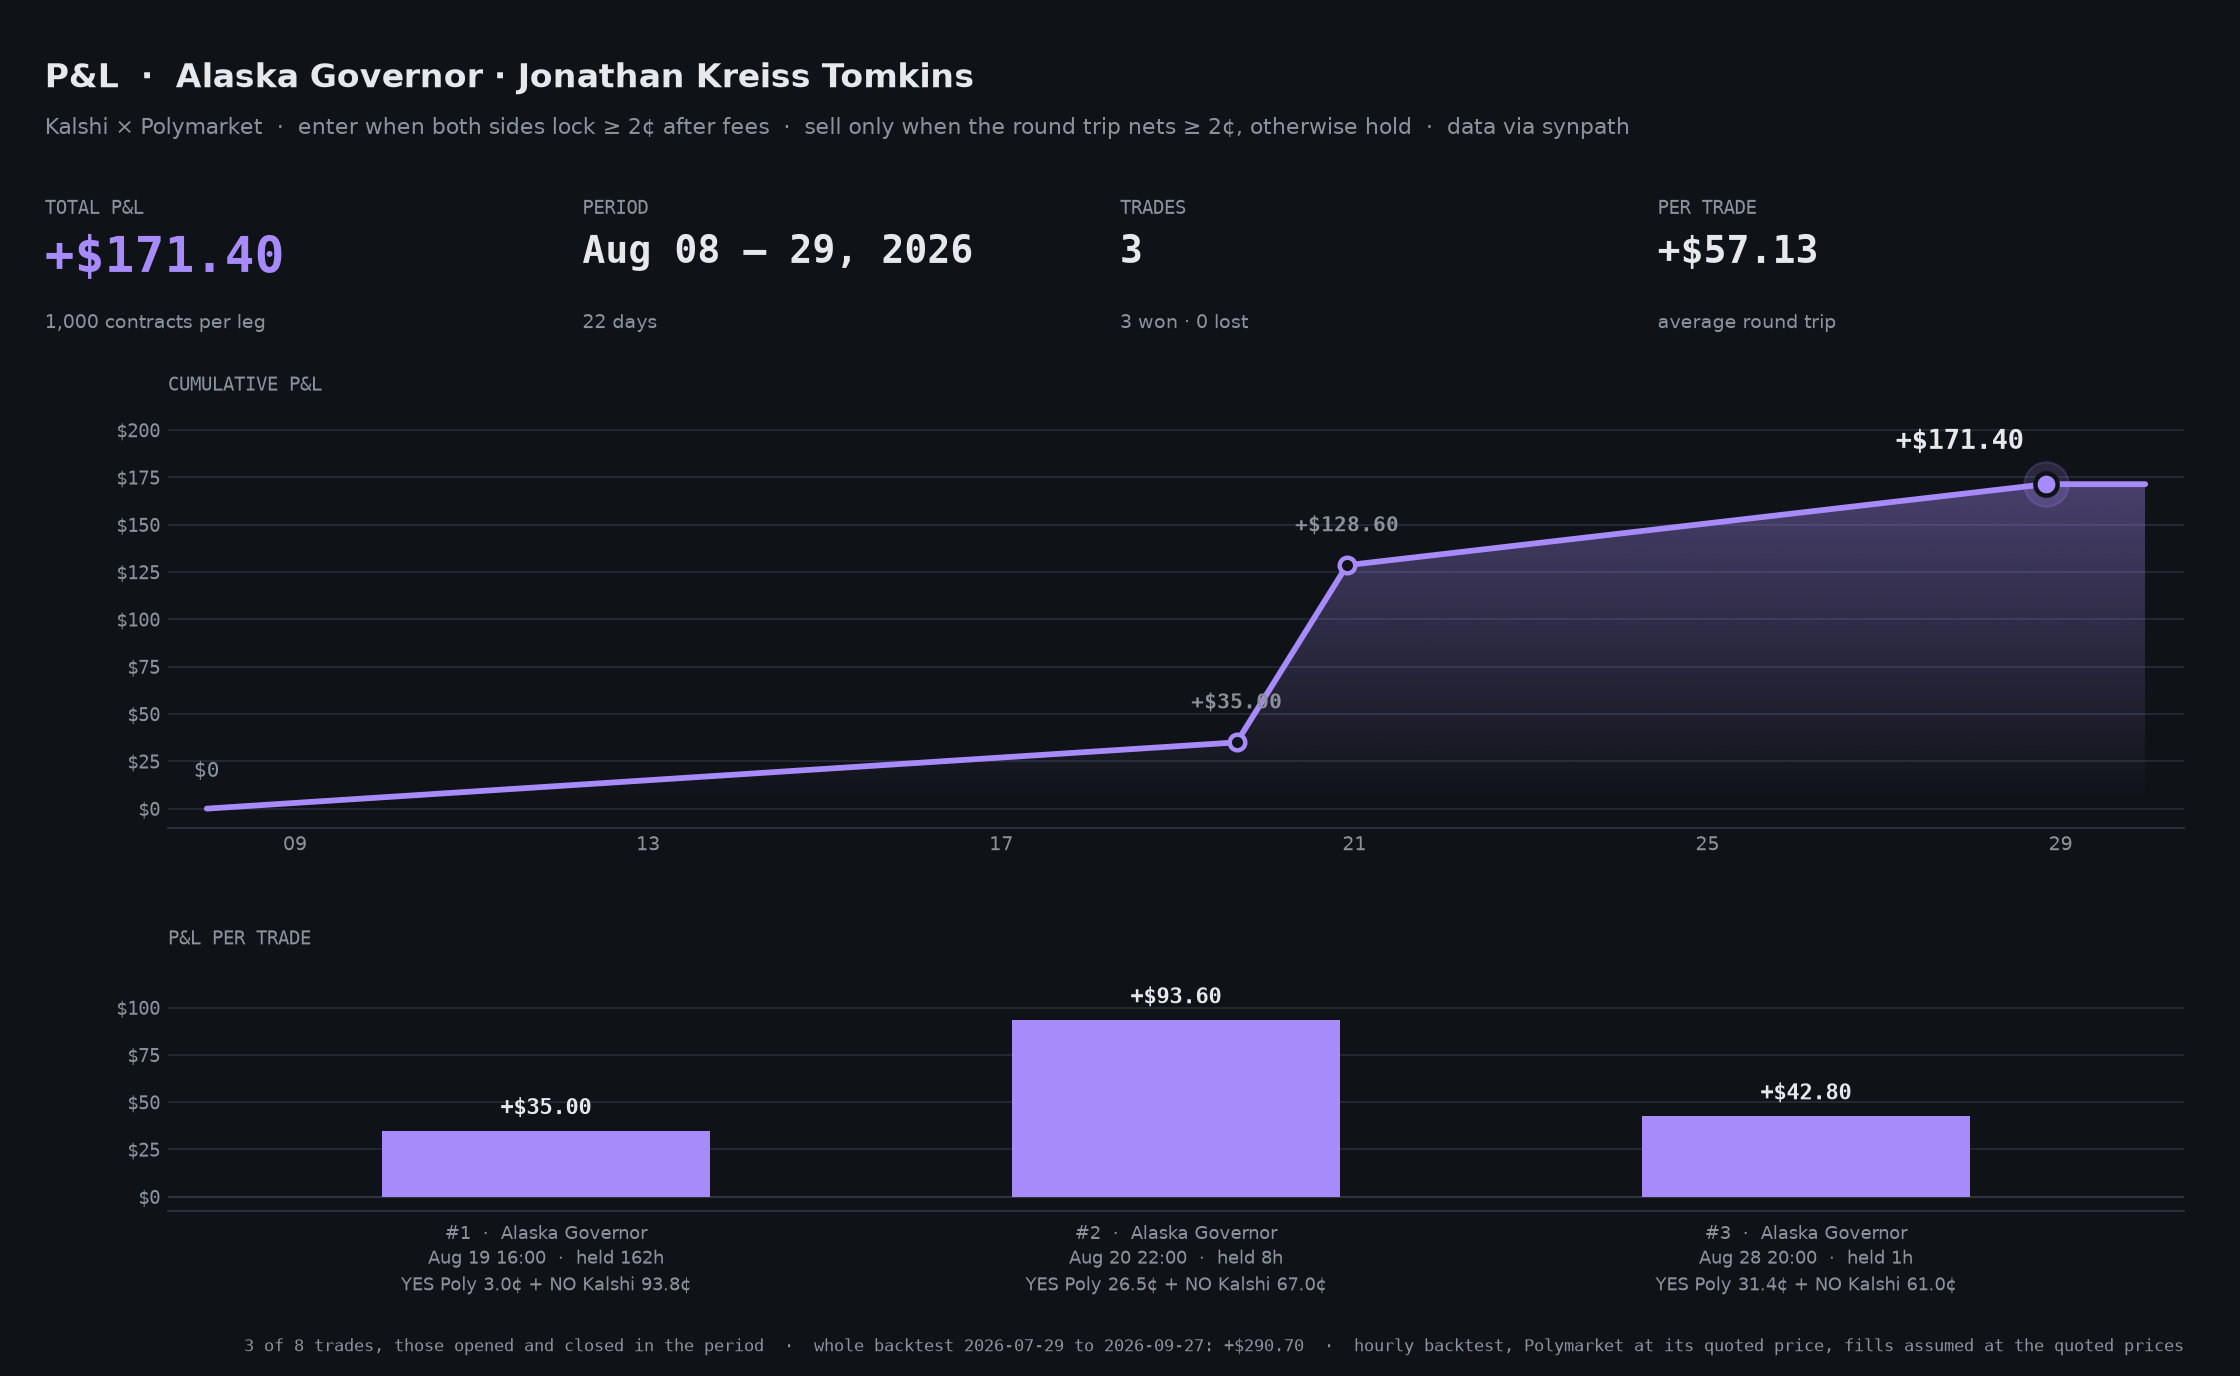
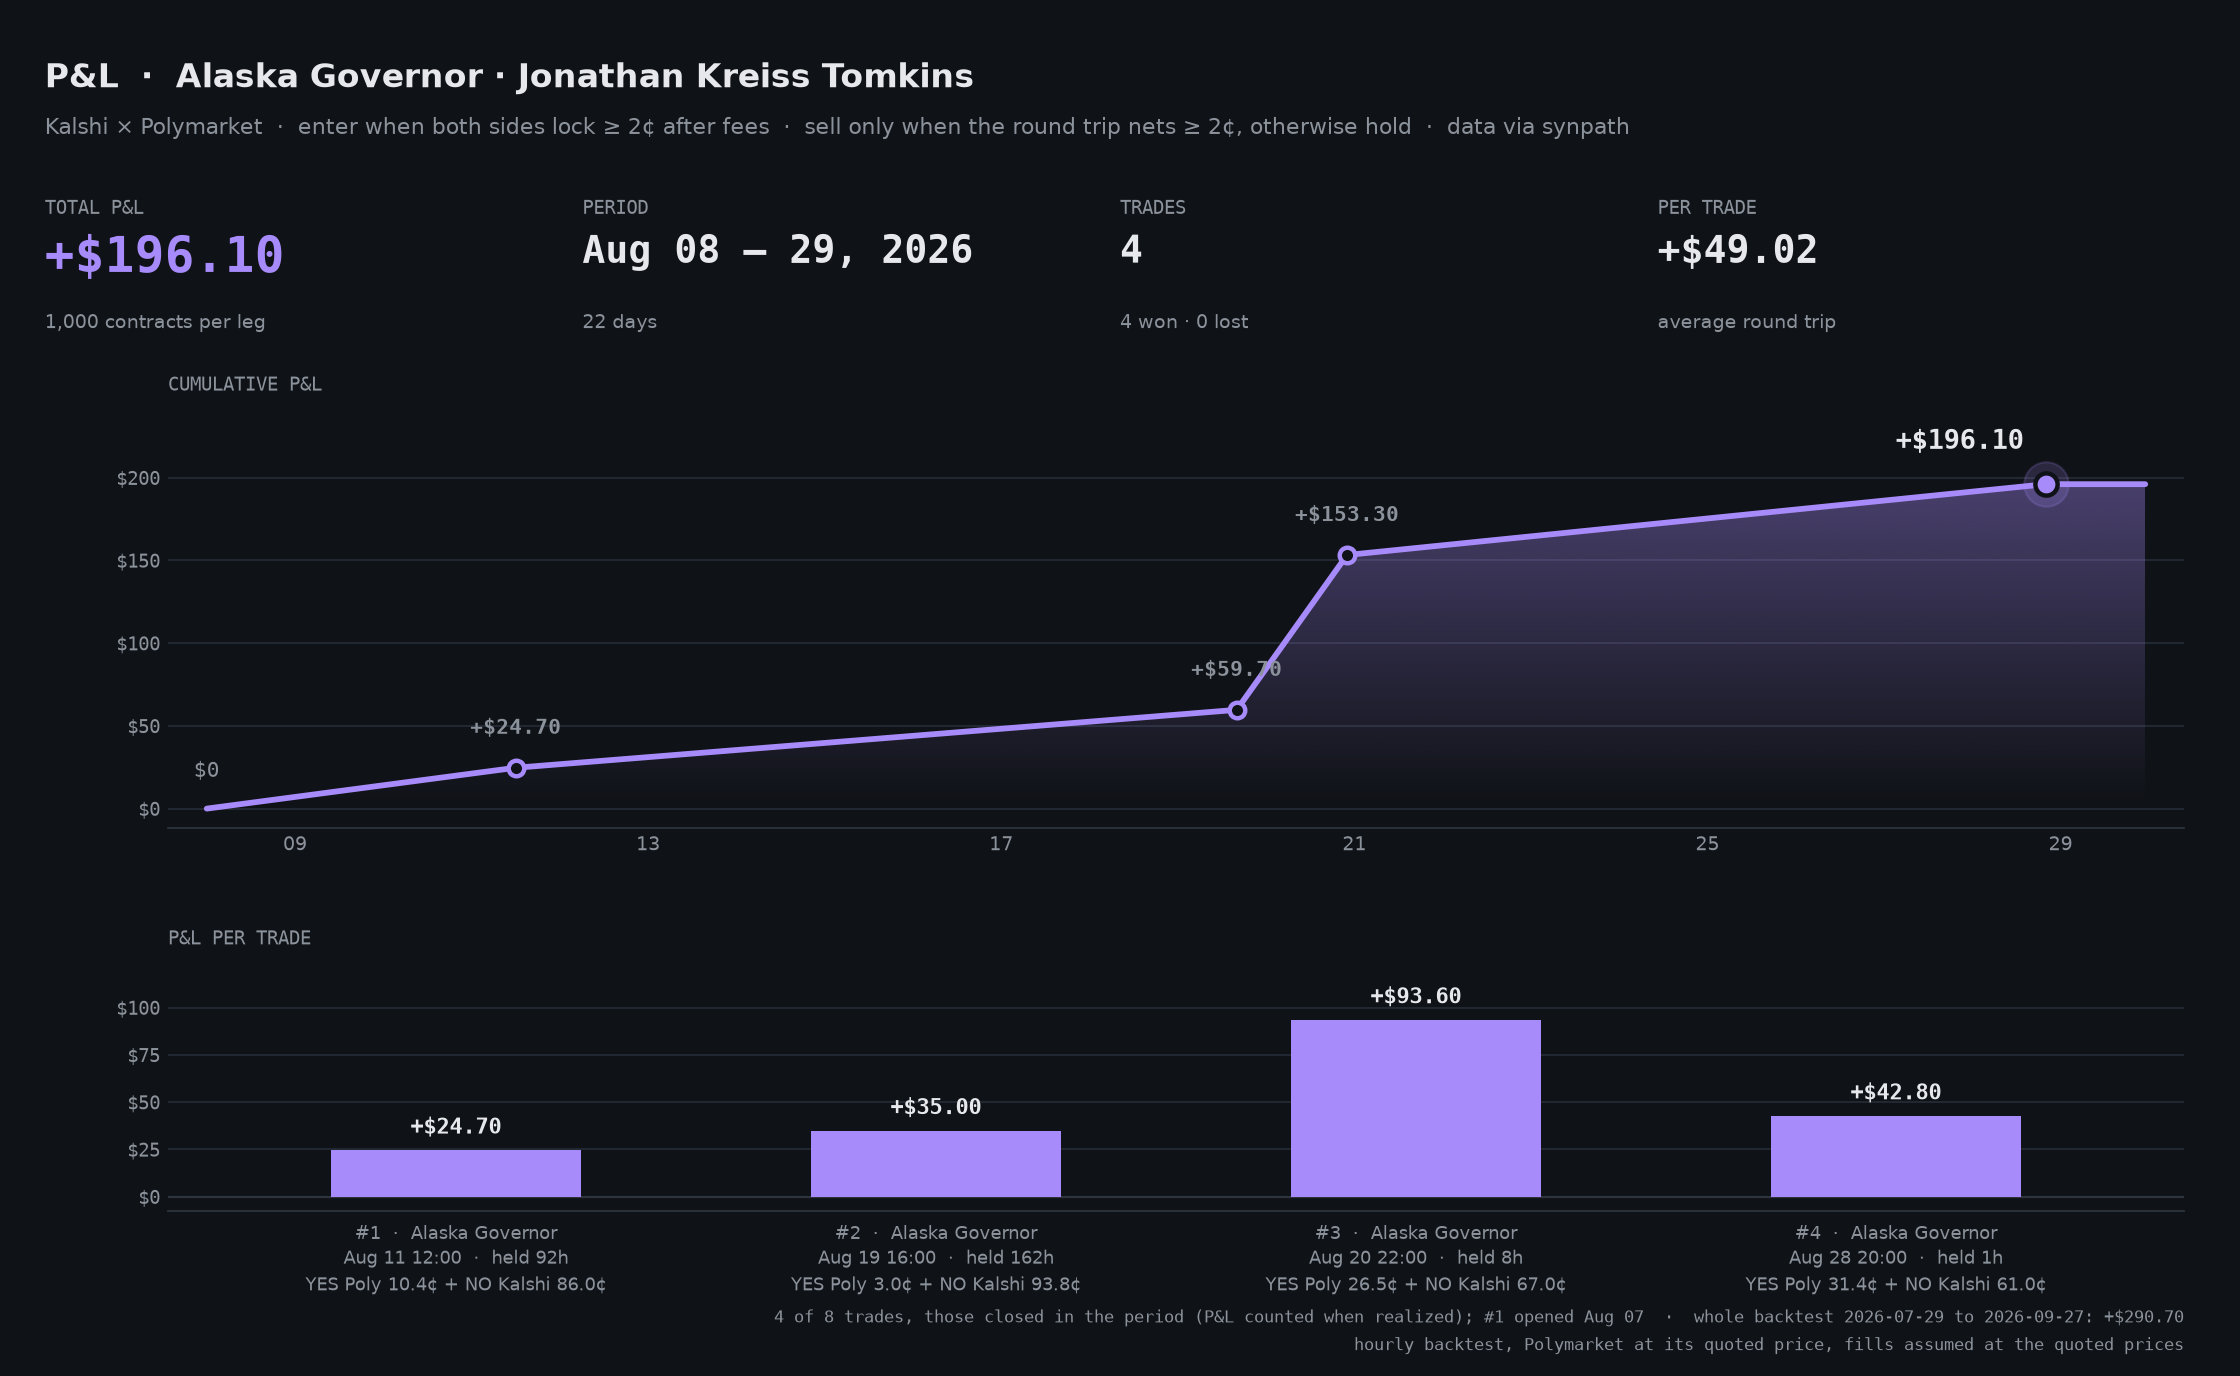
Alaska Governor charts: Aug 8 - 29, counting trades closed in the period
charts.py --by-close counts the trades that closed in a period (P&L when
realized), shows their entries even when they opened before it, and names
those in the footnote. Long footnotes wrap onto a second line.

diff --git a/backtest/charts.py b/backtest/charts.py
@@ -3,13 +3,16 @@
     python -m backtest.charts                                            # every market, whole backtest
     python -m backtest.charts --market kalshi:HOUSETX15-26-R --start 2026-08-03 --end 2026-08-16
     python -m backtest.charts --best                                     # each market's best 4-6 trades
+    python -m backtest.charts --market kalshi:KXGOVAK-26-JKRE --start 2026-08-08 --end 2026-08-29 --by-close
 
 For each market, two charts of the same trades:
   out/entries_<ticker>[_<period>].png   both venues' prices, the spread between them shaded, every
                                         ENTRY n tagged with the edge it locked and every EXIT n
   out/pnl_<ticker>[_<period>].png       total and period, the running P&L, and each trade as bar #n
 and, without --market, out/pnl_all[_<period>].png for the markets together. A period keeps the
-trades that opened and closed inside it; the footnote always gives the whole backtest's total.
+trades that opened and closed inside it, or with --by-close the trades that closed inside it (P&L
+counted when realized; the footnote names any that opened earlier). The footnote always gives the
+whole backtest's total.
 """
 from __future__ import annotations
 
@@ -294,7 +297,11 @@ def pnl_chart(title: str, trades: list[dict], contracts: float, start: int, end:
         if not many:
             items += [(money(y), (x, y), spots, plain) for x, y in zip(xs[1:-2], ys[1:-2])]
     place(fig, ax, items, point_boxes(ax, list(zip(xs[:-1], ys[:-1]))), pad=2)
-    fig.text(0.975, 0.018, footnote, ha="right", fontsize=7.8, color=MUTED, fontfamily=MONO)
+    if len(footnote) > 150:          # too long for one line: the caveats go on a second
+        head, _, tail = footnote.partition("  ·  hourly backtest")
+        footnote = f"{head}\nhourly backtest{tail}" if tail else footnote
+    fig.text(0.975, 0.012, footnote, ha="right", va="bottom", fontsize=7.8, color=MUTED, fontfamily=MONO,
+             linespacing=1.6)
     fig.savefig(path, dpi=160, facecolor=BG)
     plt.close(fig)
     print(path)
@@ -309,6 +316,9 @@ def main() -> None:
     ap.add_argument("--start", help="first day, YYYY-MM-DD (UTC)")
     ap.add_argument("--end", help="last day, YYYY-MM-DD (UTC)")
     ap.add_argument("--best", action="store_true", help="each market's best run of 4-6 consecutive trades")
+    ap.add_argument("--by-close", action="store_true",
+                    help="a period counts the trades that closed in it (P&L counted when realized), "
+                         "even one opened before it; the price chart starts early enough to show its entry")
     a = ap.parse_args()
 
     data = json.loads(Path(a.file).read_text())
@@ -333,12 +343,19 @@ def main() -> None:
             start = max(series_start, min(t["entry_ms"] for t in shown) - 12 * HOUR_MS)
             end = min(series_end, max(t["exit_ms"] for t in shown) + 12 * HOUR_MS)
             where = f"trades {i + 1}–{i + n} of {len(closed)}"
+        elif a.by_close:
+            shown = [t for t in closed if start <= t["exit_ms"] <= end]
+            early = [n for n, t in enumerate(shown, 1) if t["entry_ms"] < start]
+            where = (f"{len(shown)} of {len(pair['trades'])} trades, those closed in the period (P&L counted when realized)"
+                     + "".join(f"; #{n} opened {dt(shown[n - 1]['entry_ms']):%b %d}" for n in early))
         else:
             # Trades that opened and closed inside the period; one still held counts if it opened inside.
             shown = [t for t in pair["trades"] if start <= t["entry_ms"] and (t["exit_ms"] or series_end) <= end]
             where = f"{len(shown)} of {len(pair['trades'])} trades, those opened and closed in the period"
         ticker = pair["kalshi_id"].split(":", 1)[1]
-        entries_chart(pair, shown, start, end, OUT / f"entries_{ticker}{tag}.png", strategy=strategy, source=source,
+        # The price chart reaches back to the earliest entry it shows.
+        chart_start = max(series_start, min([start] + [t["entry_ms"] - 12 * HOUR_MS for t in shown]))
+        entries_chart(pair, shown, chart_start, end, OUT / f"entries_{ticker}{tag}.png", strategy=strategy, source=source,
                       note=where)
         done = [t for t in shown if t["exit_ms"] is not None]
         held = [t for t in shown if t["exit_ms"] is None]

diff --git a/README.md b/README.md
@@ -52,7 +52,7 @@ A pair costs just under $1, so each entry at 1,000 contracts uses about $980, sp
 ![Alaska entries and exits](assets/alaska_entries.png)
 ![Alaska P&L](assets/alaska_pnl.png)
 
-Each ENTRY tag shows the edge the pair locked after fees, per $1. ENTRY n / EXIT n on the price chart is bar #n on the P&L chart. A period keeps the trades that opened and closed inside it.
+Each ENTRY tag shows the edge the pair locked after fees, per $1. ENTRY n / EXIT n on the price chart is bar #n on the P&L chart. The TX-15 period keeps the trades that opened and closed inside it; the Alaska period counts the trades that closed inside it (P&L counted when realized), so its trade #1, opened Aug 7, is included.
 
 **Read the backtest with its limits:**
 - Hourly data: the bot checks every minute, the backtest once an hour.
@@ -107,6 +107,7 @@ Backtest and charts:
 ```bash
 python -m backtest.backtest --days 60
 python -m backtest.charts --market kalshi:HOUSETX15-26-R --start 2026-08-03 --end 2026-08-16
+python -m backtest.charts --market kalshi:KXGOVAK-26-JKRE --start 2026-08-08 --end 2026-08-29 --by-close
 ```
 
 ## How It Works
